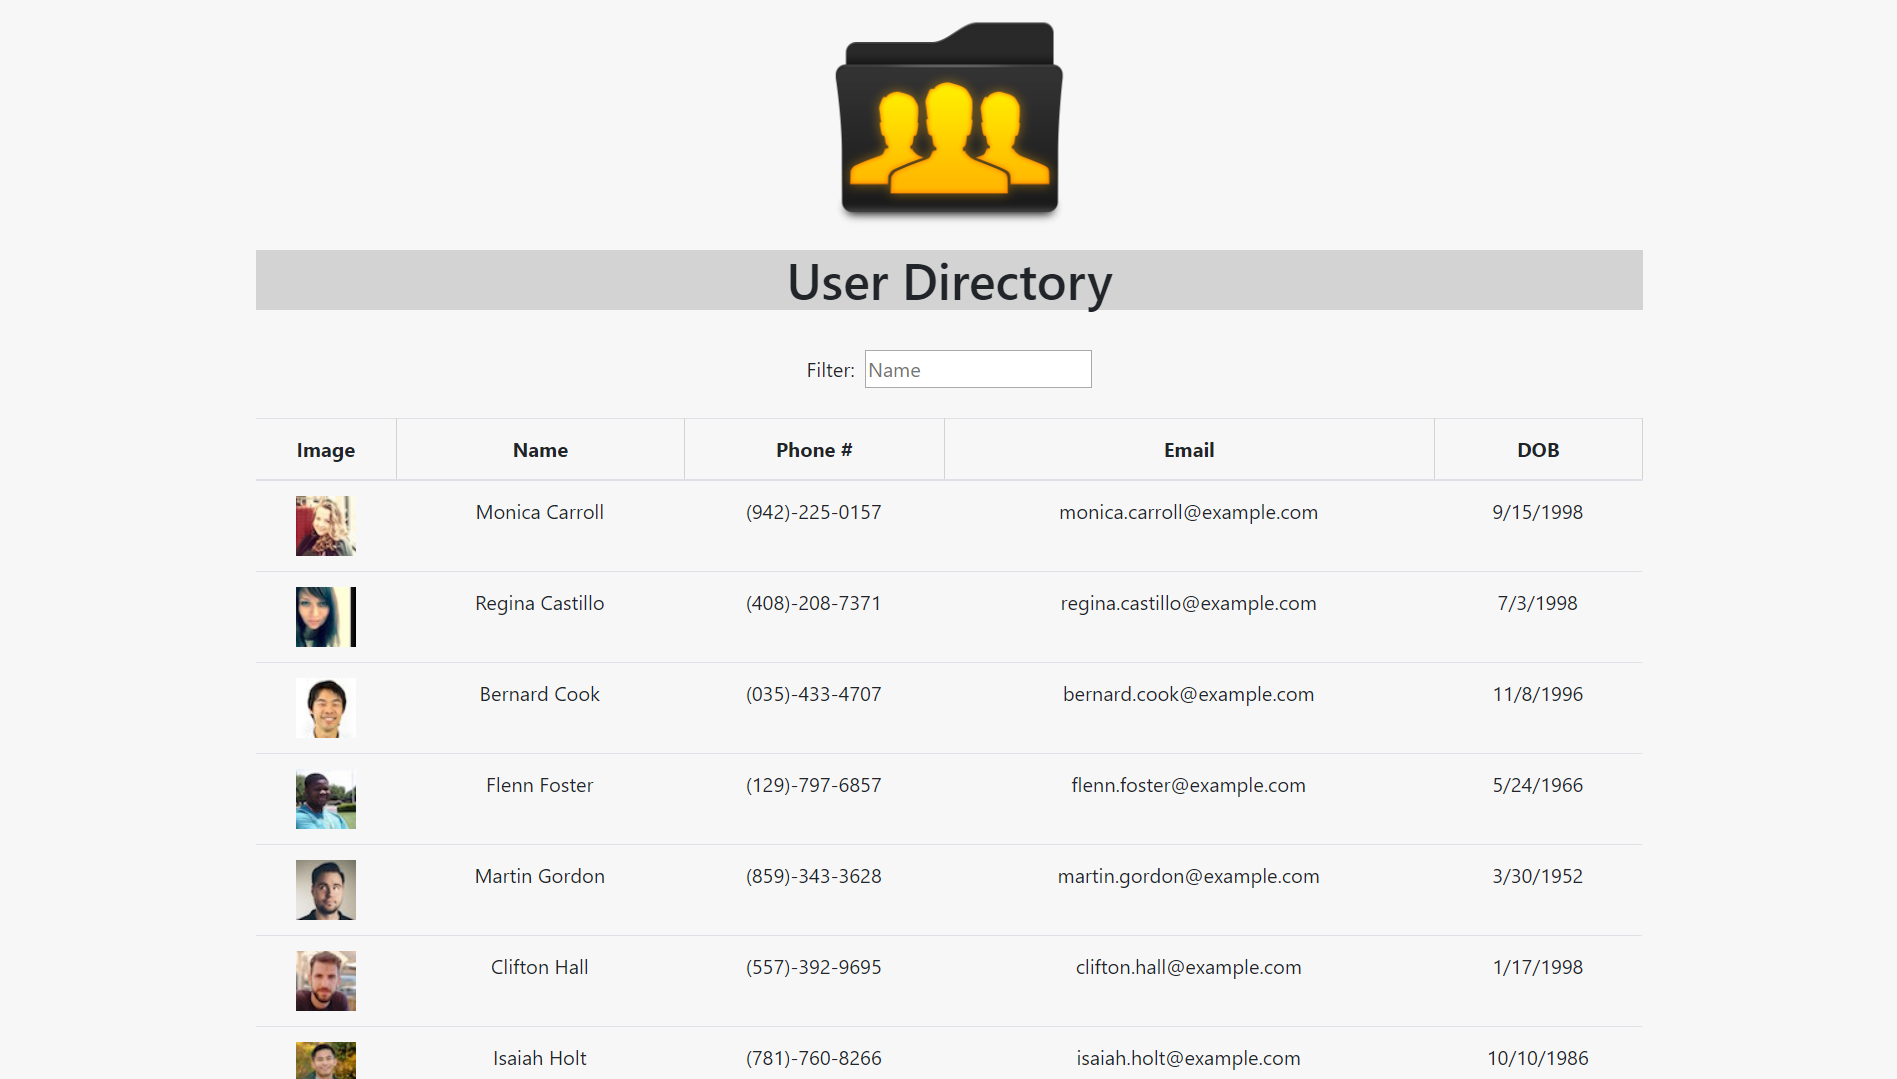
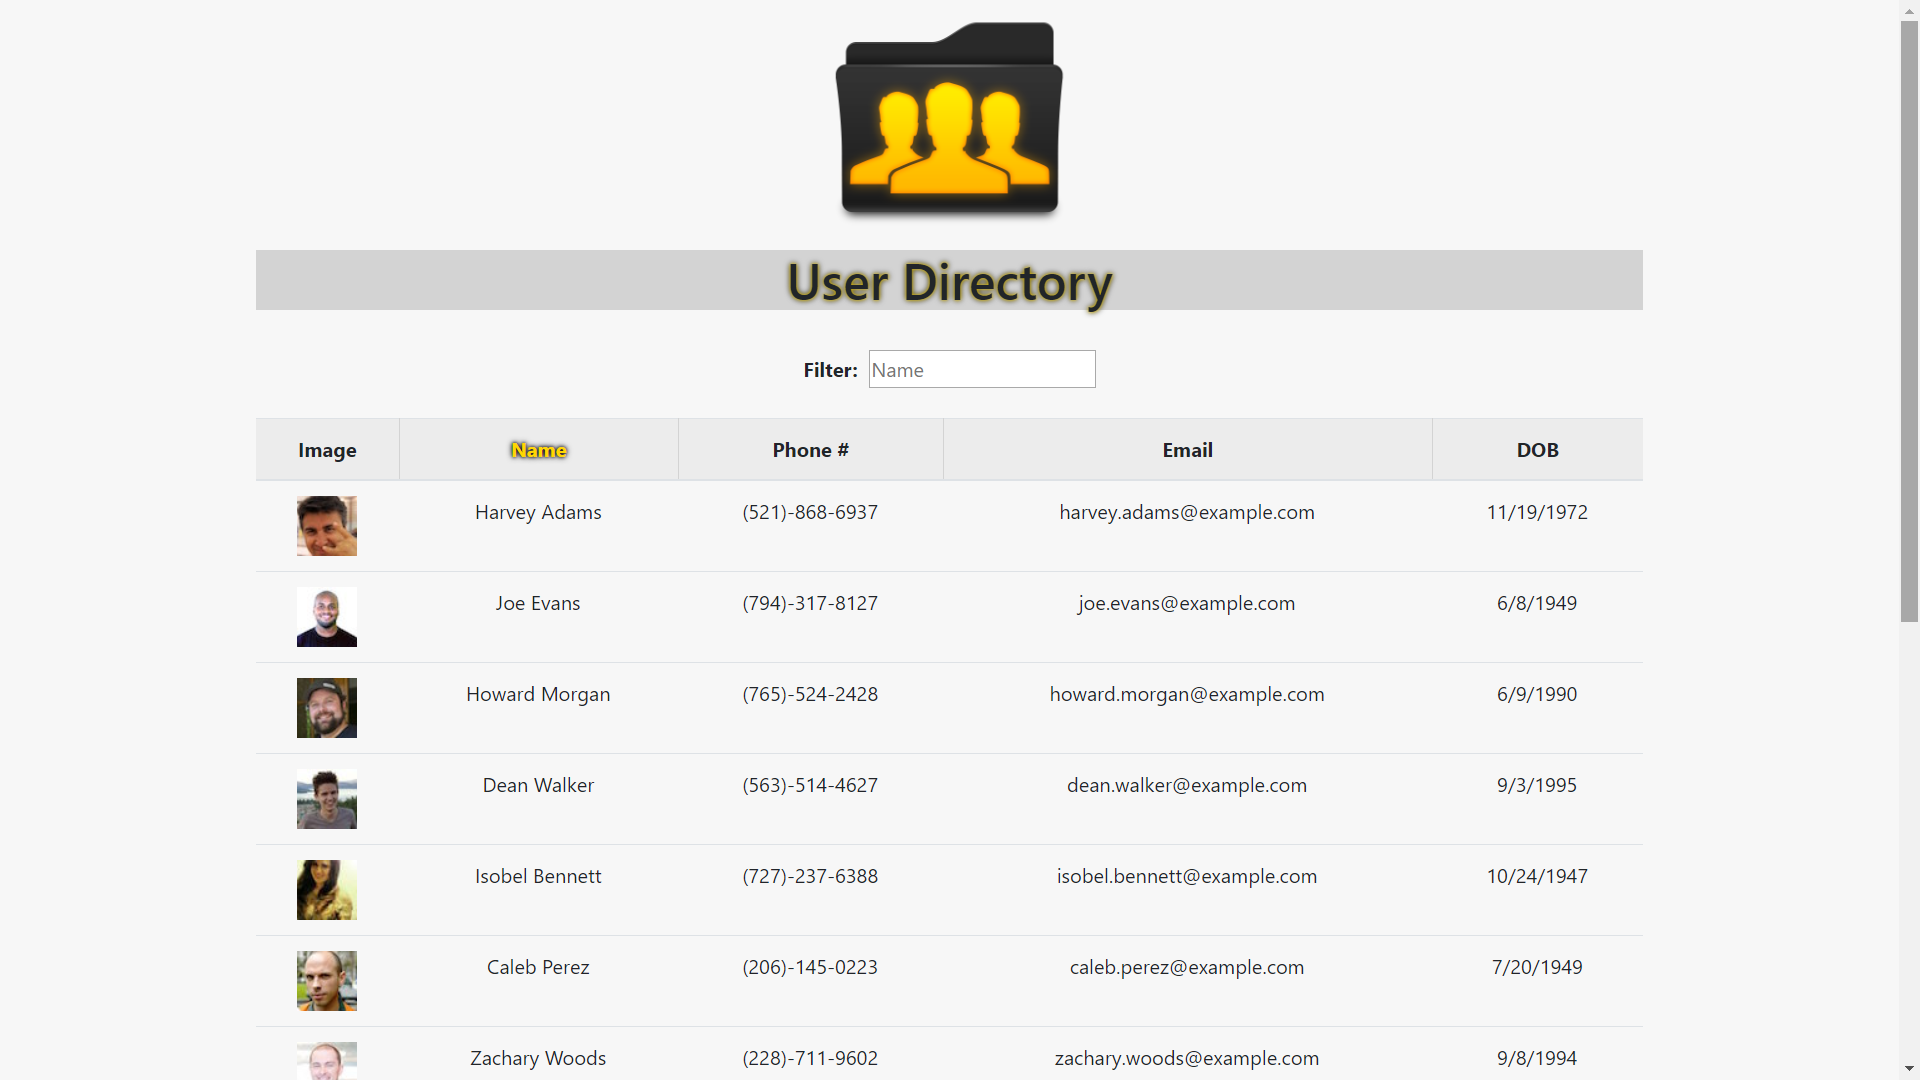
added styling

diff --git a/src/components/Table.js b/src/components/Table.js
@@ -73,7 +73,7 @@ function Table(props) {
                         <th id="name" onClick={handleName} scope="col">Name</th>
                         <th scope="col">Phone #</th>
                         <th scope="col">Email</th>
-                        <th scope="col">DOB</th>
+                        <th id="dob" scope="col">DOB</th>
                     </tr>
                 </thead>
                 <tbody>

diff --git a/src/components/Table.css b/src/components/Table.css
@@ -1,5 +1,7 @@
 #name {
     cursor: pointer;   
+    color: gold;
+    text-shadow: 0 0 3px black, 0 0 5px black
 }
 
 #name:hover {
@@ -8,5 +10,10 @@
 
 th {
     border-right: 1px solid lightgray;
+    background-color: rgb(236, 236, 236);
 
+}
+
+#dob {
+    border-right: none;
 }

diff --git a/src/components/Search.js b/src/components/Search.js
@@ -1,4 +1,5 @@
 import React from 'react';
+import './search.css';
 
 function Search(props) {
     console.log(props);

diff --git a/src/components/header.css b/src/components/header.css
@@ -1,5 +1,7 @@
 h1 {
     background-color: lightgray;
+    text-shadow: 0 0 3px gold, 0 0 5px black
+
 }
 
 #users {

diff --git a/src/components/search.css b/src/components/search.css
@@ -1,0 +1,3 @@
+form {
+    font-weight: bold;
+}
